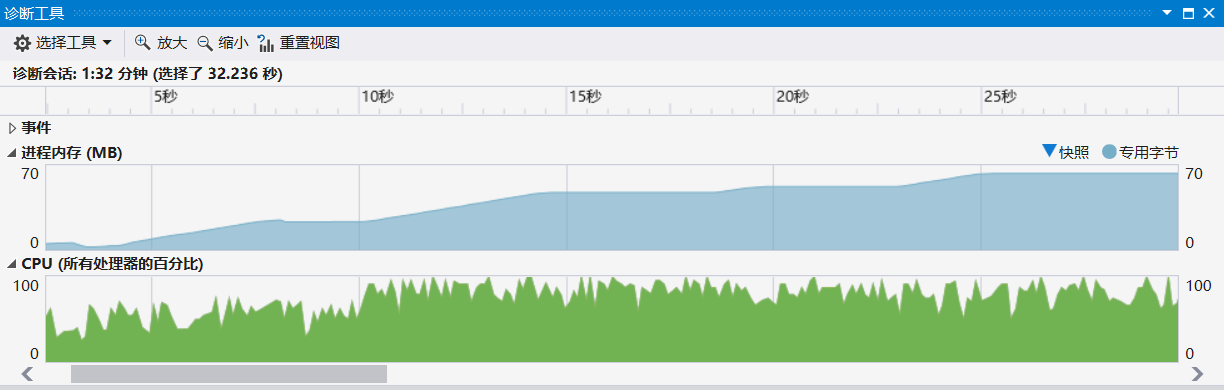
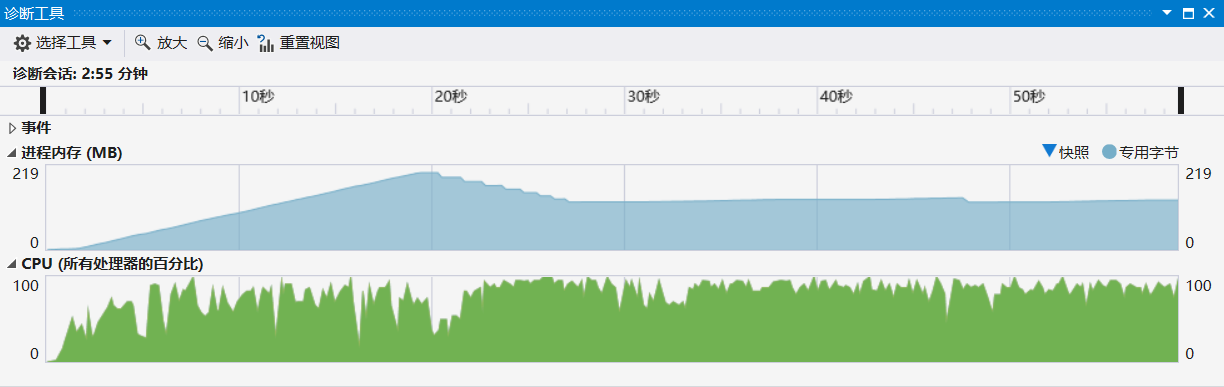
README: update memory && cpu analysis graph

diff --git a/javalib_src/ydk/test/GCTest.java b/javalib_src/ydk/test/GCTest.java
@@ -1,47 +1,31 @@
 package ydk.test;
-
 import ydk.lang.IO;
-
 public class GCTest {
     private String[] strings = null;
     private int cnt = 0;
     private static final int MAX = 20000;
-
     public static void produceGarbage(){
-        for(int i=0;i<10000;i++){
-            new Object();
-        }
+        for(int i=0;i<10000;i++){ new Object(); }
     }
     public static void produceArrayGarbage(){
-        for(int i=0;i<10000;i++) {
-            Object[] unused = new Object[100];
-        }
+        for(int i=0;i<10000;i++) { Object[] unused = new Object[100]; }
     }
-
     public void fullGC(){
-        for(int i=0;i<MAX;i++){
-           new Object();
-        }
+        for(int i=0;i<MAX;i++){ new Object(); }
     }
-
     public void halfGC(){
         strings = new String[MAX/2];
-        for(int i=0;i<MAX;i++){
-            if(i%2==0){
+        for(int i=0;i<MAX;i++)
+            if(i%2==0)
                 strings[cnt++] = "This is "+ i +" times to say hello to you\n";
-            }
-        }
         cnt=0;
     }
     public void print(){
-        for(int i=0;i<MAX/2;i++){
-            IO.print(strings[i]);
-        }
+        for(int i=0;i<MAX/2;i++){ IO.print(strings[i]); }
     }
-
     public static void main(String[] args){
-        //produceGarbage();
-        //produceArrayGarbage();
+        produceGarbage();
+        produceArrayGarbage();
         GCTest test = new GCTest();
         test.fullGC();
         test.fullGC();

diff --git a/README.EN.md b/README.EN.md
@@ -66,10 +66,6 @@ Rewrote JDK classes are as follows:
 + Garbage Collection
 ![](./public/gc_java.png)
 ![](./public/gc_console.png)
-![](./public/gc_sampling.png)
-(Before:)
-![](./public/gc_sampling.png)
-(After improving performance:)
 ![](./public/gc_sampling_2.png)
 # License
 Code licensed under the MIT License.

diff --git a/README.md b/README.md
@@ -68,9 +68,6 @@ $ make -j4
 + 垃圾回收
 ![](./public/gc_java.png)
 ![](./public/gc_console.png)
-(性能提升前:)
-![](./public/gc_sampling.png)
-(性能提升后:)
 ![](./public/gc_sampling_2.png)
 
 # License
